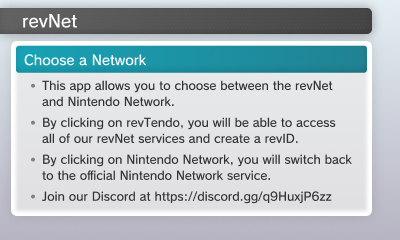
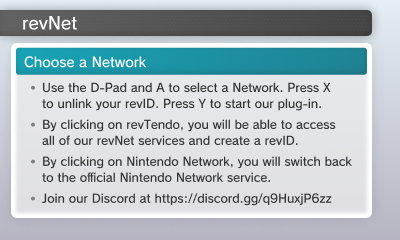
ver 0.6.3

Changed region(s): [[0.0, 0.0292, 0.93, 0.6125], [0.03, 0.7875, 0.93, 0.9333], [0.06, 0.6417, 0.9, 0.7583]]

diff --git a/app/source/states/MainUI.cpp b/app/source/states/MainUI.cpp
@@ -329,7 +329,8 @@ bool MainUI::drawUI(MainStruct *mainStruct, C3D_RenderTarget* top_screen,
  
     C2D_SceneBegin(bottom_screen);
     C2D_DrawSprite(&mainStruct->revNetBottom_Main);
-    if (!mainStruct->prompt.active) DrawControls();
+    // if (!mainStruct->prompt.active) DrawControls();
+    // Leave this commented out, unless directed by Adrian. //
  
     if (mainStruct->buttonSelected == NascEnvironment::NASC_ENV_Prod) {
         if (mainStruct->currentAccount == NascEnvironment::NASC_ENV_Prod) {
@@ -390,15 +391,15 @@ bool MainUI::drawUI(MainStruct *mainStruct, C3D_RenderTarget* top_screen,
             retrevID = 0;
             if (R_FAILED(retrevID = ACT_GetAccountIndexOfFriendAccountId(&revidAccountSlot, 3))) {
                     LOG_REVNET_ERROR(mainStruct, std::format("ACT_GetAccountIndexOfFriendAccountId failed: {}!", retrevID).c_str());
-                    loadAndPlaySFX("romfs:/sfx/MES_WARNING.wav");
+                    loadAndPlaySFX("romfs:/sfx/MES_INFO.wav");
                 }
                 else if (revidAccountSlot == 0) {
                     LOG_REVNET_ERROR(mainStruct, "There is no revID linked on this console!");
-                    loadAndPlaySFX("romfs:/sfx/MES_WARNING.wav");
+                    loadAndPlaySFX("romfs:/sfx/MES_INFO.wav");
                 }
                 else if (R_FAILED(retrevID = ACT_GetAccountInfo(revid, sizeof(revid), revidAccountSlot, INFO_TYPE_ACCOUNT_ID))) {
                     LOG_REVNET_ERROR(mainStruct, std::format("ACT_GetAccountInfo failed: {}!", retrevID).c_str());
-                    loadAndPlaySFX("romfs:/sfx/MES_WARNING.wav");
+                    loadAndPlaySFX("romfs:/sfx/MES_INFO.wav");
                 }
                 else if (revid[0] != '\0') {
                     openPrompt(mainStruct,
@@ -408,7 +409,7 @@ bool MainUI::drawUI(MainStruct *mainStruct, C3D_RenderTarget* top_screen,
                 }
                 else {
                     LOG_REVNET_ERROR(mainStruct, "There is no revID linked on this console!");
-                    loadAndPlaySFX("romfs:/sfx/MES_WARNING.wav");
+                    loadAndPlaySFX("romfs:/sfx/MES_INFO.wav");
             }
         }
         